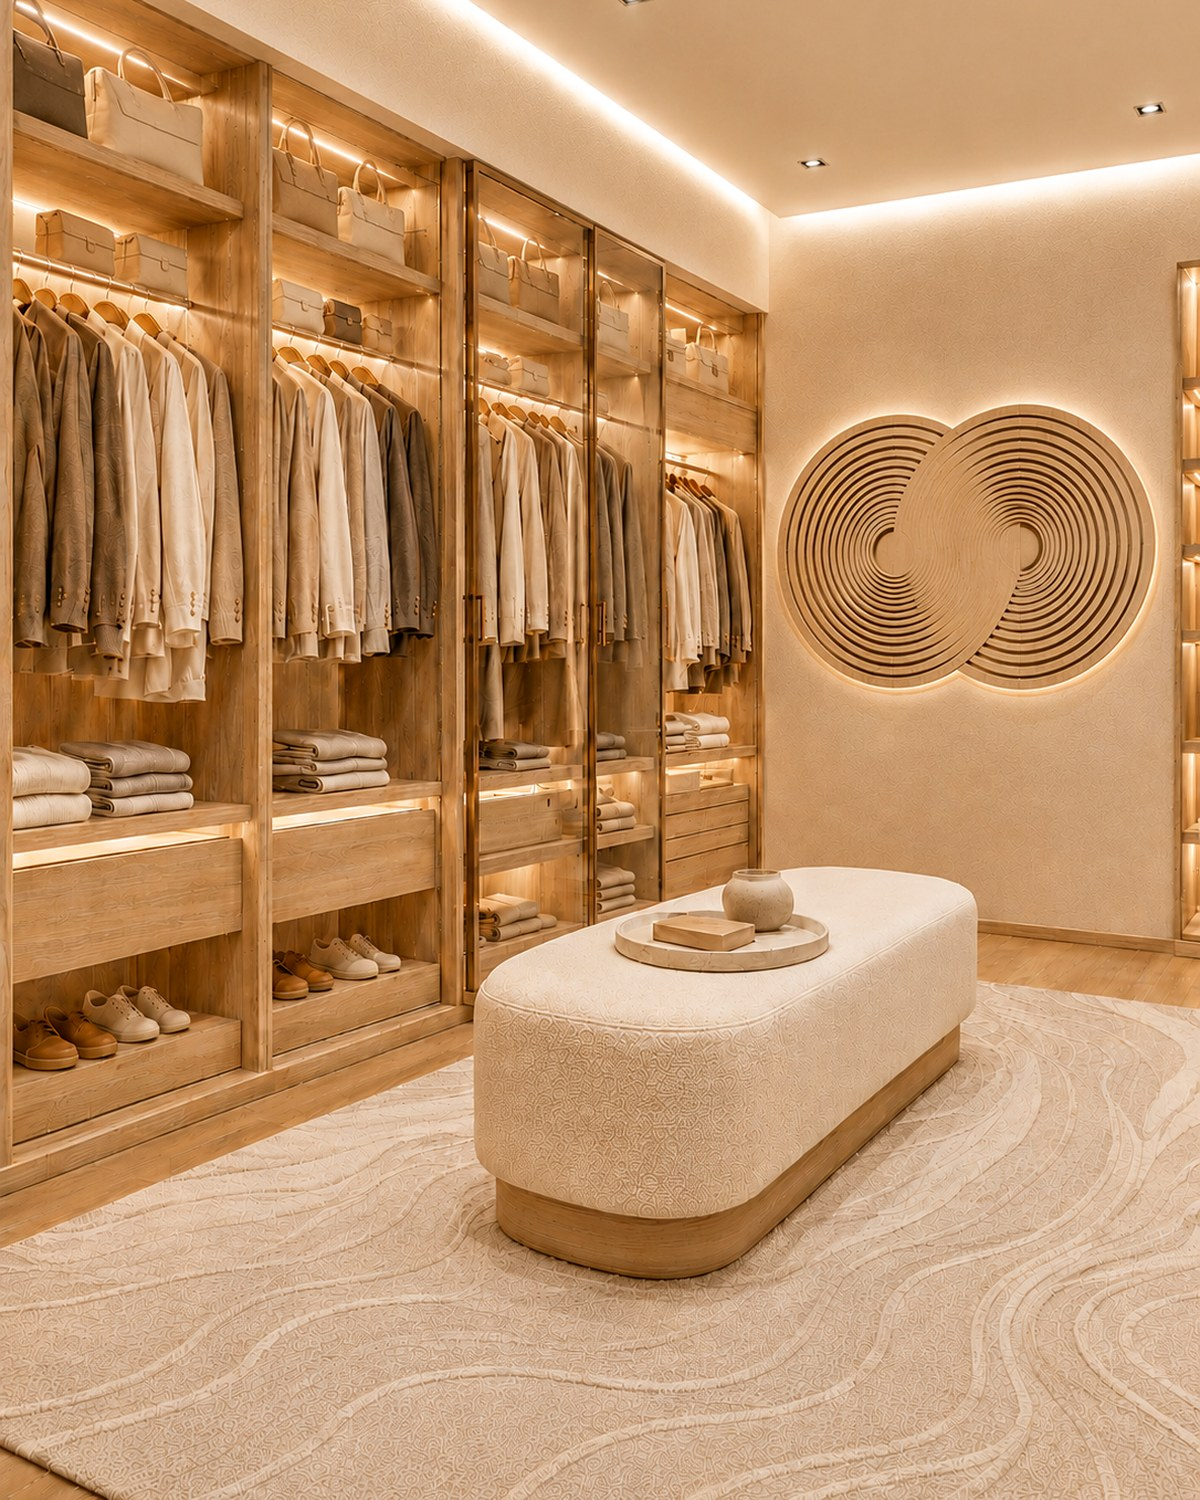
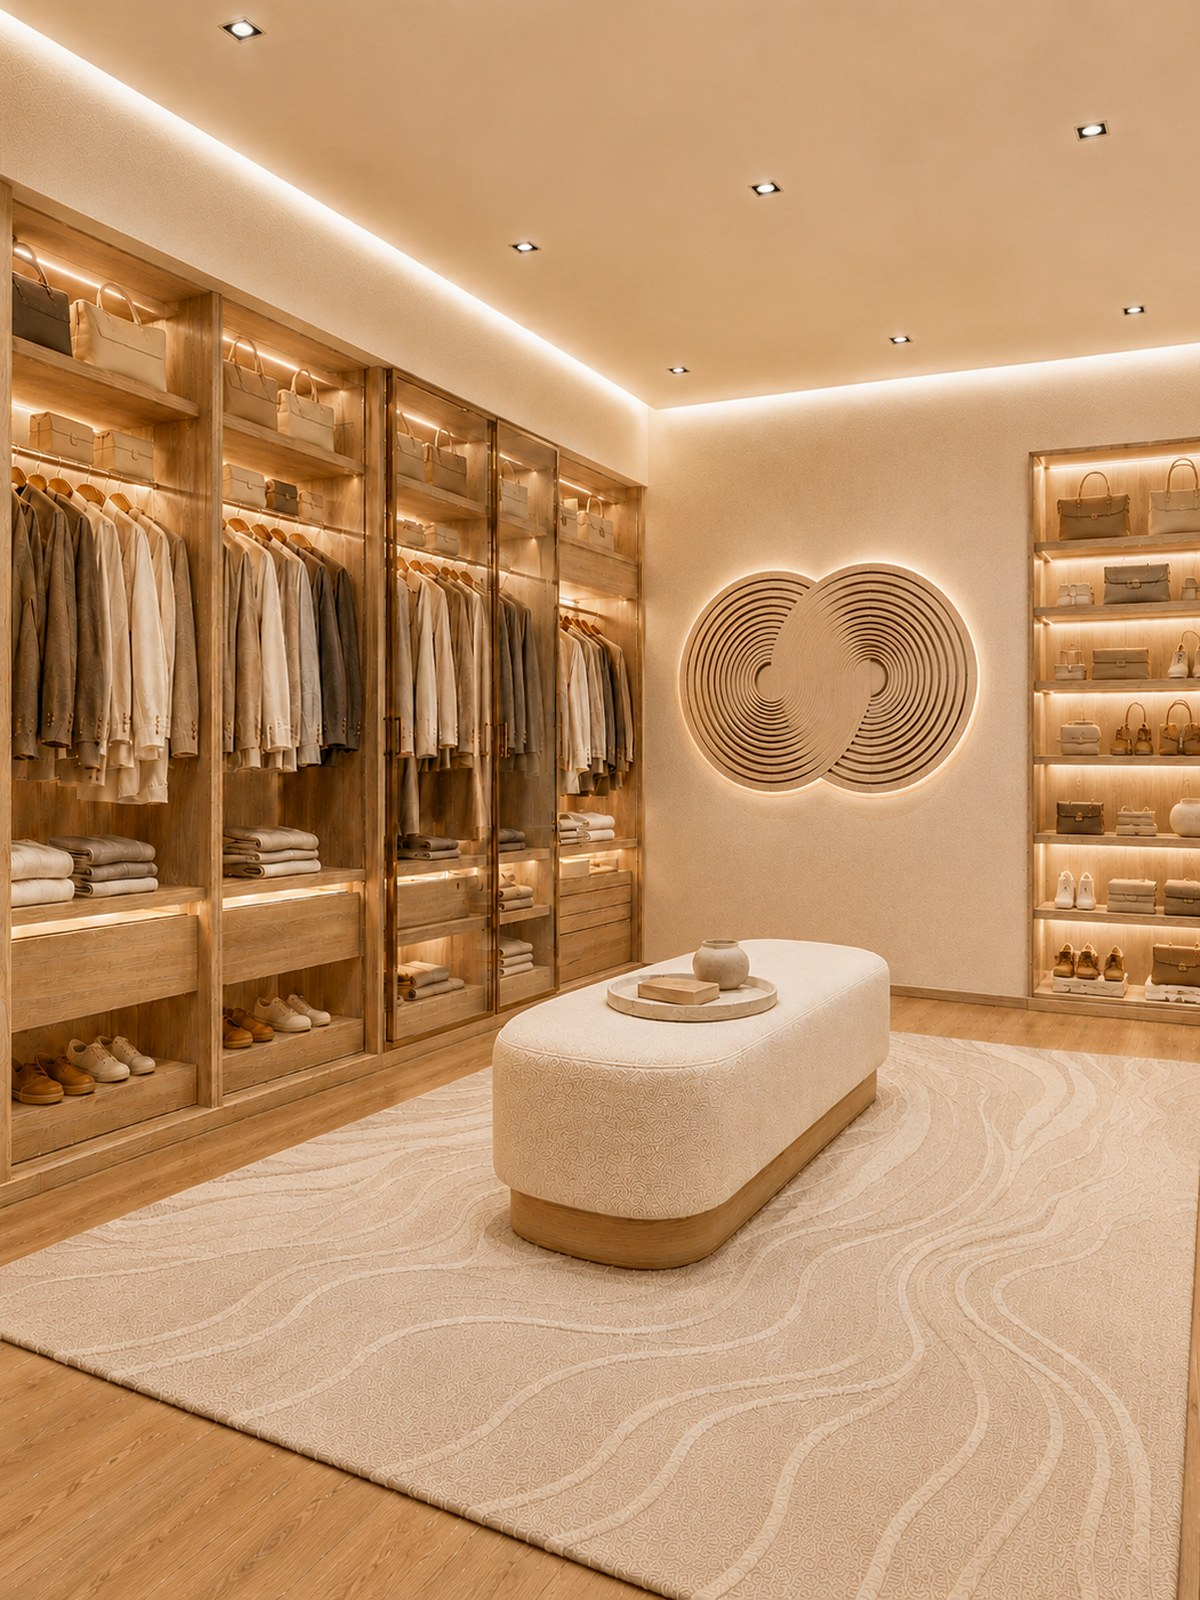
Add files via upload

diff --git a/style.css b/style.css
@@ -594,7 +594,6 @@ footer>*{position:relative;z-index:2}
 
 /* ── 28. DIFERENCIAIS · acordeão mais rico ──────────────────── */
 
-
 /* ═══════════════════════════════════════════════════════════════
    29. ESCALA · LEGIBILIDADE PRIMEIRO
    Nada mais é dimensionado pela altura da janela. O texto tem
@@ -906,7 +905,6 @@ section{padding:clamp(58px,6.2vw,108px) var(--pad)}
    Quando varanda.jpg existir na pasta, ela assume sozinha.
    ──────────────────────────────────────────────────────────── */
 .fc-view{background-color:#1B2415}
-
 
 /* ── RODAPÉ · a árvore precisa de espaço para existir ────────── */
 footer{padding-bottom:clamp(240px,26vw,400px)}
@@ -1233,7 +1231,6 @@ body.mm-on .mm-links a{opacity:1;translate:0}
   .fach-stop span{font-size:11px;letter-spacing:.18em}
   .fach-rail{padding:22px 0 8px}
   .fach-hint{font-size:8px;letter-spacing:.18em}
-
 
   /* MAPA DE CALOR */
   .stage{max-width:none;height:auto}
@@ -1984,4 +1981,184 @@ body.mm-on .mm-links a{opacity:1;translate:0}
   .hero-metros{max-width:100%}
   .hm-val{font-size:15px;gap:5px;flex-wrap:nowrap}
   .hm-val i{width:11px}
+}
+
+/* ═══════════════════════════════════════════════════════════════
+   40. A ESPIADA · um gesto só, repetido
+   O site tinha seis sistemas interativos e nenhum parecia
+   interativo. Tudo que se mexe estava disfarçado de conteúdo
+   parado. Isto é a camada que avisa: aqui se toca.
+   Movimento contido: curto, lento, e só onde há algo a descobrir.
+   ═══════════════════════════════════════════════════════════════ */
+
+/* ── ORIENTAÇÃO · quanto falta e onde eu estou ───────────────── */
+.progresso{position:fixed;inset:0 0 auto 0;z-index:960;height:2px;
+  background:rgba(31,31,31,.07);pointer-events:none}
+.progresso i{display:block;height:100%;transform-origin:left center;
+  transform:scaleX(0);background:var(--corten);will-change:transform}
+@media(max-width:820px){.progresso{height:2.5px}}
+
+.nl{position:relative}
+.nl::after{content:"";position:absolute;left:0;right:0;bottom:0;height:1px;
+  background:var(--acc);transform:scaleX(0);transform-origin:left center;
+  transition:transform .5s var(--e)}
+.nl.on{color:var(--acc)}
+.nl.on::after{transform:scaleX(1)}
+.mm-links a.on{color:var(--marca)}
+.mm-links a.on i{color:var(--marca-lit)}
+
+/* ── A ESPIADA · a placa mostra que corre ────────────────────
+   15% de deslocamento, ida e volta, com pausa no meio.
+   Curta o bastante para não distrair, longa o bastante para
+   o olho registrar que aquilo é uma peça móvel.
+   ──────────────────────────────────────────────────────────── */
+@keyframes espiada{
+   0%  {transform:translateX(0)}
+  28%  {transform:translateX(-15%)}
+  62%  {transform:translateX(-15%)}
+ 100%  {transform:translateX(0)}
+}
+/* o conteúdo de trás acende junto, senão a espiada revela um vazio */
+.tri.espia .tri-in{opacity:.5;translate:0 6px;transition:opacity .5s var(--e)}
+
+
+/* ── MAPA DE CALOR · o controle pede para ser arrastado ────── */
+.dica-arrasta{display:flex;align-items:center;gap:9px;margin-top:10px;
+  font-size:8px;letter-spacing:.26em;text-transform:uppercase;color:var(--acc);
+  opacity:0;translate:-6px 0;
+  transition:opacity .6s var(--e),translate .6s var(--e)}
+.dica-arrasta.on{opacity:.75;translate:0}
+.dica-arrasta s{width:16px;height:1px;background:currentColor;
+  text-decoration:none;flex:none;animation:cutucaFio 2.2s var(--e) infinite}
+@keyframes cutucaFio{
+  0%,72%,100%{transform:translateX(0);opacity:.5}
+  84%{transform:translateX(5px);opacity:1}
+}
+input[type=range].pulsa::-webkit-slider-thumb{animation:pulsaBola 2.4s var(--e) 3}
+input[type=range].pulsa::-moz-range-thumb{animation:pulsaBola 2.4s var(--e) 3}
+@keyframes pulsaBola{
+  0%,100%{box-shadow:0 0 0 1px var(--acc),0 0 0 0 rgba(81,29,5,.34)}
+  50%    {box-shadow:0 0 0 1px var(--acc),0 0 0 11px rgba(81,29,5,0)}
+}
+
+/* ── PERFIS · a foto precisa de altura para existir ──────────
+   O cartão era mais largo que alto e cortava o closet inteiro.
+   ──────────────────────────────────────────────────────────── */
+@media(max-width:640px){
+  .perfil{min-height:118vw}
+  .perfil-in{padding:24px 22px 30px}
+  .perfil-in h3{font-size:26px}
+  .perfil-in p{font-size:13.5px;max-width:none}
+  .perfil-placa::after{top:auto;bottom:clamp(22px,6vw,34px)}
+}
+@media(min-width:641px){
+  .perfis{height:clamp(420px,46vw,540px)}
+}
+
+/* respeitar quem pediu menos movimento */
+@media(prefers-reduced-motion:reduce){
+  .tri.espia .tri-placa,.dica-arrasta s,
+  input[type=range].pulsa::-webkit-slider-thumb{animation:none!important}
+  .progresso i{transition:none}
+}
+
+/* ═══════════════════════════════════════════════════════════════
+   41. O SCROLL ABRE AS CHAPAS
+   A espiada nos perfis era o gesto errado: ela promete e retira.
+   Aqui a mão que abre é a sua rolagem — mesmo motor do Flex Cave,
+   que é a coisa mais valiosa que este projeto inventou.
+   Cada chapa parte de um ponto diferente do percurso, então nunca
+   abrem juntas. Sobe de volta e fecham: o gesto não se gasta.
+   ═══════════════════════════════════════════════════════════════ */
+.perfil{--abre:0}
+.perfil-placa{
+  transform:translateX(calc(var(--abre) * -101%));
+  transition:transform .18s linear}
+/* escolher ou passar o mouse manda mais que a rolagem */
+.perfil:hover .perfil-placa,
+.perfil[aria-pressed="true"] .perfil-placa{
+  transform:translateX(-101%);transition:transform 1s var(--e)}
+
+/* a foto assenta enquanto a chapa sai: entra em 1,12 e pousa em 1,00.
+   É a assinatura de movimento das maisons — a imagem não aparece,
+   ela repousa. */
+.perfil-bg{
+  scale:calc(1.12 - 0.12 * var(--abre));
+  filter:saturate(calc(.35 + .65 * var(--abre)))
+         brightness(calc(.62 + .12 * var(--abre)));
+  transition:scale .2s linear,filter .3s linear}
+.perfil:hover .perfil-bg,.perfil[aria-pressed="true"] .perfil-bg{
+  scale:1;filter:saturate(1) brightness(.74);
+  transition:scale 1.2s var(--e),filter 1s var(--e)}
+
+/* fio de luz na aresta dianteira: é o que separa "um retângulo
+   que se move" de "uma chapa de aço deslizando" */
+.perfil-placa::before{content:"";position:absolute;top:0;bottom:0;right:-1px;
+  width:2px;pointer-events:none;
+  background:linear-gradient(180deg,transparent,rgba(255,236,208,.85) 22%,
+             rgba(255,236,208,.9) 78%,transparent);
+  opacity:calc(var(--abre) * 1.4);
+  box-shadow:0 0 18px 2px rgba(255,214,170,.35)}
+.perfil:hover .perfil-placa::before{opacity:0}
+
+/* o texto de apoio acompanha a abertura */
+.perfil-in p{opacity:var(--abre);translate:0 calc((1 - var(--abre)) * 10px)}
+.perfil:hover .perfil-in p,.perfil[aria-pressed="true"] .perfil-in p{
+  opacity:1;translate:0}
+
+/* ── FACHADA · só o comando se anuncia ──────────────────────
+   Um fio de corten percorre os três botões, e o ativo pulsa.
+   A imagem não se mexe: mover um render parado é mentira visível.
+   ──────────────────────────────────────────────────────────── */
+.fach-btns{position:relative}
+.fach-btns::after{content:"";position:absolute;left:0;bottom:0;height:2px;
+  width:33.333%;background:var(--marca);opacity:0;pointer-events:none}
+#fachada.anuncia .fach-btns::after{animation:corredor 3.4s var(--e) 1}
+@keyframes corredor{
+   0%  {opacity:0;transform:translateX(0)}
+  10%  {opacity:.9}
+  38%  {transform:translateX(100%)}
+  66%  {transform:translateX(200%)}
+  90%  {opacity:.9;transform:translateX(0)}
+ 100%  {opacity:0;transform:translateX(0)}
+}
+#fachada.anuncia .fach-stop.on{animation:respiraBotao 1.5s var(--e) 2}
+@keyframes respiraBotao{
+  0%,100%{box-shadow:inset 0 0 0 0 rgba(255,236,208,0)}
+  50%    {box-shadow:inset 0 0 0 2px rgba(255,236,208,.55)}
+}
+#fachada.anuncia .fach-hint{animation:acendeDica 3.4s var(--e) 1}
+@keyframes acendeDica{
+  0%,100%{opacity:.62} 20%,70%{opacity:1}
+}
+
+/* ── PERFIS NO CELULAR · número em cima, convite no meio,
+   definição embaixo. Nada mais se atropela.
+   ──────────────────────────────────────────────────────────── */
+@media(max-width:640px){
+  .perfil{min-height:122vw}
+  .perfil-num{top:20px;left:22px;bottom:auto;font-size:13px;z-index:4}
+  .perfil-placa::after{
+    top:50%;left:50%;bottom:auto;translate:-50% -50%;
+    padding:13px 24px;font-size:9px;letter-spacing:.28em;
+    animation:respiraConvite 2.6s var(--e) infinite}
+  .perfil-in{padding:22px 22px 26px}
+  .perfil-in em{font-size:8px;margin-bottom:8px}
+  .perfil-in h3{font-size:25px;line-height:1.05}
+  .perfil-in p{font-size:13.5px;margin-top:11px;max-width:none}
+  .perfil-pick{top:20px;right:20px;opacity:.45}
+  .perfil[aria-pressed="true"] .perfil-pick{opacity:1}
+}
+@keyframes respiraConvite{
+  0%,100%{opacity:.9;transform:translate(-50%,-50%) scale(1)}
+  50%    {opacity:1;transform:translate(-50%,-50%) scale(1.035)}
+}
+/* aberta a chapa, o convite vai embora com ela */
+.perfil-placa::after{transition:opacity .5s var(--e)}
+
+@media(prefers-reduced-motion:reduce){
+  .perfil-placa,.perfil-bg{transition:none}
+  #fachada.anuncia .fach-btns::after,
+  #fachada.anuncia .fach-stop.on,
+  .perfil-placa::after{animation:none!important}
 }

diff --git a/index.html b/index.html
@@ -14,6 +14,9 @@
 <link rel="stylesheet" href="style.css">
 </head>
 <body>
+<!-- fio de progresso: a única pista de "quanto falta" que o site dá -->
+<div class="progresso" aria-hidden="true"><i id="progFio"></i></div>
+
 <div class="grid" aria-hidden="true">
   <i class="v" style="left:var(--rail)"></i>
   <i class="v" style="right:var(--rail)"></i>
@@ -225,6 +228,7 @@
       <span class="eyebrow">Seu raio de caminhada</span>
       <div class="ctrl"><b id="radv">30</b><span class="eyebrow">min a pé</span></div>
       <input type="range" id="rad" min="3" max="75" value="30" step="1" aria-label="Minutos a pé">
+      <p class="dica-arrasta" id="dicaRaio"><s></s>Arraste para o lado</p>
       <div class="ticks"><span>3</span><span>15</span><span>30</span><span>45</span><span>75</span></div>
       <div class="cats" id="cats"></div>
       <div style="margin-top:24px;padding-top:18px;border-top:1px solid var(--rule)">
@@ -444,6 +448,32 @@
 try{
 
 addEventListener('scroll',()=>document.getElementById('nav').classList.toggle('solid',scrollY>40),{passive:true});
+
+/* ══ ORIENTAÇÃO ════════════════════════════════════════════════
+   Duas coisas, nenhuma decorativa: quanto falta, e onde eu estou.
+   É o que responde à reclamação de "site confuso".
+   ════════════════════════════════════════════════════════════ */
+const fio=document.getElementById('progFio');
+function marcaProgresso(){
+  const h=document.documentElement.scrollHeight-innerHeight;
+  fio.style.transform='scaleX('+(h>0?Math.min(1,scrollY/h):0).toFixed(4)+')';
+}
+addEventListener('scroll',marcaProgresso,{passive:true});
+addEventListener('resize',marcaProgresso); marcaProgresso();
+
+/* o item do menu acende conforme a seção passa */
+const elos=[...document.querySelectorAll('.nl, .mm-links a')];
+const secoes=[...document.querySelectorAll('header[id], section[id]')];
+if('IntersectionObserver' in window){
+  const ioNav=new IntersectionObserver(es=>{
+    es.forEach(e=>{
+      if(!e.isIntersecting)return;
+      const id='#'+e.target.id;
+      elos.forEach(a=>a.classList.toggle('on',a.getAttribute('href')===id));
+    });
+  },{rootMargin:'-45% 0px -50% 0px'});
+  secoes.forEach(s=>ioNav.observe(s));
+}
 }catch(e){console.error('[Morás] bloco falhou:',e)}
 try{
 /* imagens de referência (fallback cromático embutido) */
@@ -1003,6 +1033,107 @@ try{
 /* As imagens são pintadas ANTES de qualquer rede de segurança:
    se a animação falhar, as fotos ainda assim precisam existir. */
 paintPh();
+
+/* ══ A ESPIADA ═════════════════════════════════════════════════
+   Um gesto só, repetido no site inteiro: a placa de aço corre.
+   Ao entrar na tela cada placa desliza um pouco, mostra um pedaço
+   do que tem atrás e volta. Ninguém precisa ler "toque aqui" —
+   a placa mostrou que se move. É a mesma ideia de uma gaveta
+   entreaberta: a forma explica a função.
+
+   No celular não existe hover, então os perfis abrem de vez,
+   em cascata, conforme a pessoa rola.
+   ════════════════════════════════════════════════════════════ */
+try{
+const consulta=q=>typeof matchMedia==='function'&&matchMedia(q).matches;
+const semMovimento=consulta('(prefers-reduced-motion: reduce)');
+const toque=consulta('(hover: none)');
+
+if('IntersectionObserver' in window && !semMovimento){
+  /* placas que apenas espiam */
+  const espia=new IntersectionObserver((es,obs)=>{
+    es.forEach(e=>{
+      if(!e.isIntersecting)return;
+      const el=e.target, atraso=(+el.dataset.ordem||0)*160;
+      setTimeout(()=>el.classList.add('espia'),atraso);
+      setTimeout(()=>el.classList.remove('espia'),atraso+1400);
+      obs.unobserve(el);
+    });
+  },{threshold:.45});
+
+  document.querySelectorAll('#trio .tri').forEach((el,i)=>{
+    el.dataset.ordem=i; espia.observe(el);
+  });
+
+  /* ── PERFIS · o scroll é a mão que corre as chapas ──────────
+     Mesmo motor do Flex Cave. Cada chapa começa a abrir num
+     ponto diferente da rolagem, então nunca abrem juntas. Sobe
+     de volta e elas fecham: o gesto nunca se gasta.
+     ──────────────────────────────────────────────────────── */
+  const cartoes=[...document.querySelectorAll('#perfisGrid .perfil')];
+  const grade=document.getElementById('perfisGrid');
+  const INICIO=[0.20,0.35,0.50], CURSO=0.34;
+  let pedidoP=null;
+  function correChapas(){
+    if(!grade||!cartoes.length)return;
+    const r=grade.getBoundingClientRect();
+    /* progresso do bloco atravessando a tela, de 0 a 1 */
+    const p=Math.max(0,Math.min(1,(innerHeight-r.top)/(innerHeight+r.height*0.55)));
+    cartoes.forEach((c,i)=>{
+      const t=Math.max(0,Math.min(1,(p-INICIO[i])/CURSO));
+      /* suaviza as pontas para a chapa nunca começar nem parar seco */
+      const e=t<.5?4*t*t*t:1-Math.pow(-2*t+2,3)/2;
+      c.style.setProperty('--abre',e.toFixed(4));
+    });
+  }
+  function agendaChapas(){
+    if(pedidoP)return;
+    pedidoP=requestAnimationFrame(()=>{pedidoP=null;correChapas()});
+  }
+  addEventListener('scroll',agendaChapas,{passive:true});
+  addEventListener('resize',agendaChapas);
+  correChapas();
+
+  /* ── FACHADA · a imagem fica parada. Prédio não anda, e mover
+     um render parado o olho reconhece como mentira em meio
+     segundo. Quem se anuncia é o comando: um fio de corten corre
+     pelos três botões e o ativo pulsa duas vezes.
+     ──────────────────────────────────────────────────────── */
+  const fachSec=document.getElementById('fachada');
+  if(fachSec){
+    const ioF=new IntersectionObserver((es,obs)=>es.forEach(e=>{
+      if(!e.isIntersecting)return;
+      setTimeout(()=>fachSec.classList.add('anuncia'),400);
+      setTimeout(()=>fachSec.classList.remove('anuncia'),4200);
+      obs.unobserve(e.target);
+    }),{threshold:.4});
+    ioF.observe(fachSec);
+  }
+
+  /* mapa de calor: o controle pulsa e a dica some no primeiro uso */
+  const raio=document.getElementById('rad'), dica=document.getElementById('dicaRaio');
+  if(raio&&dica){
+    const ioR=new IntersectionObserver((es,obs)=>es.forEach(e=>{
+      if(!e.isIntersecting)return;
+      dica.classList.add('on'); raio.classList.add('pulsa');
+      obs.unobserve(e.target);
+    }),{threshold:.5});
+    ioR.observe(raio.closest('.panel')||raio);
+    const cala=()=>{dica.classList.remove('on');raio.classList.remove('pulsa')};
+    raio.addEventListener('input',cala,{once:true});
+    raio.addEventListener('pointerdown',cala,{once:true});
+  }
+}else{
+  /* Sem observador ou com movimento reduzido, as chapas ficariam
+     fechadas para sempre e as fotos nunca apareceriam. Abre tudo. */
+  document.querySelectorAll('#perfisGrid .perfil')
+          .forEach(c=>c.style.setProperty('--abre','1'));
+}
+}catch(e){
+  console.error('[Morás] animação falhou:',e);
+  document.querySelectorAll('#perfisGrid .perfil')
+          .forEach(c=>c.style.setProperty('--abre','1'));
+}
 
 /* rede de segurança: se algo impedir a animação, o conteúdo aparece do mesmo jeito */
 if(!('IntersectionObserver' in window)){
